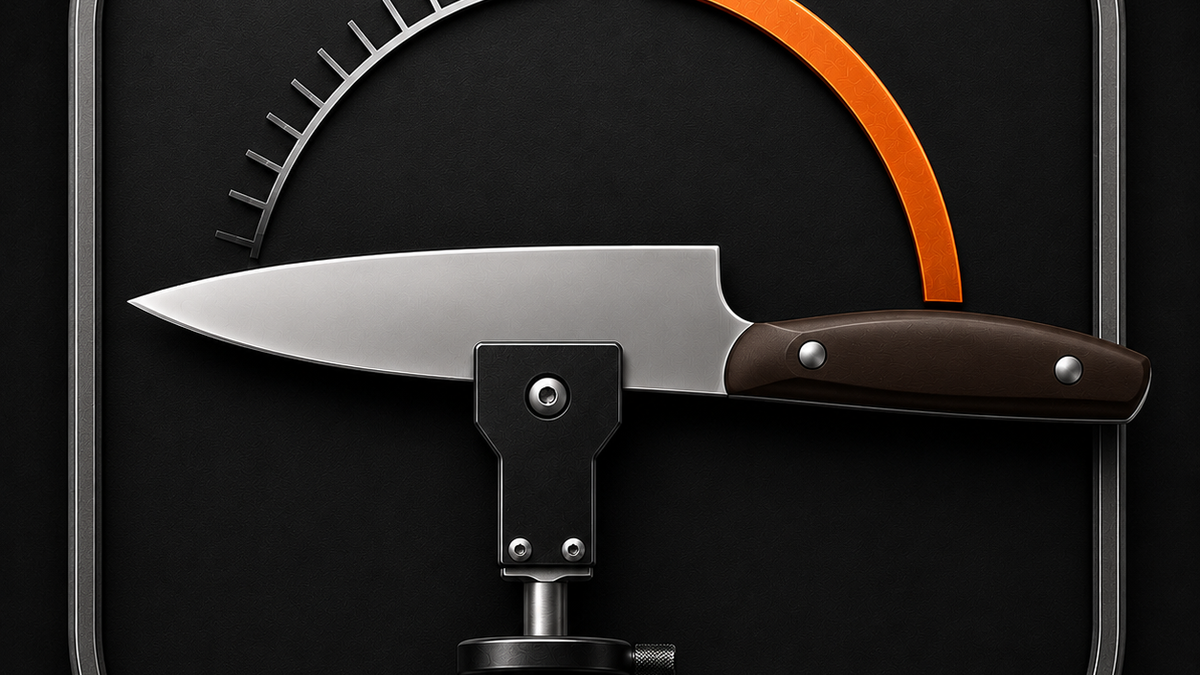
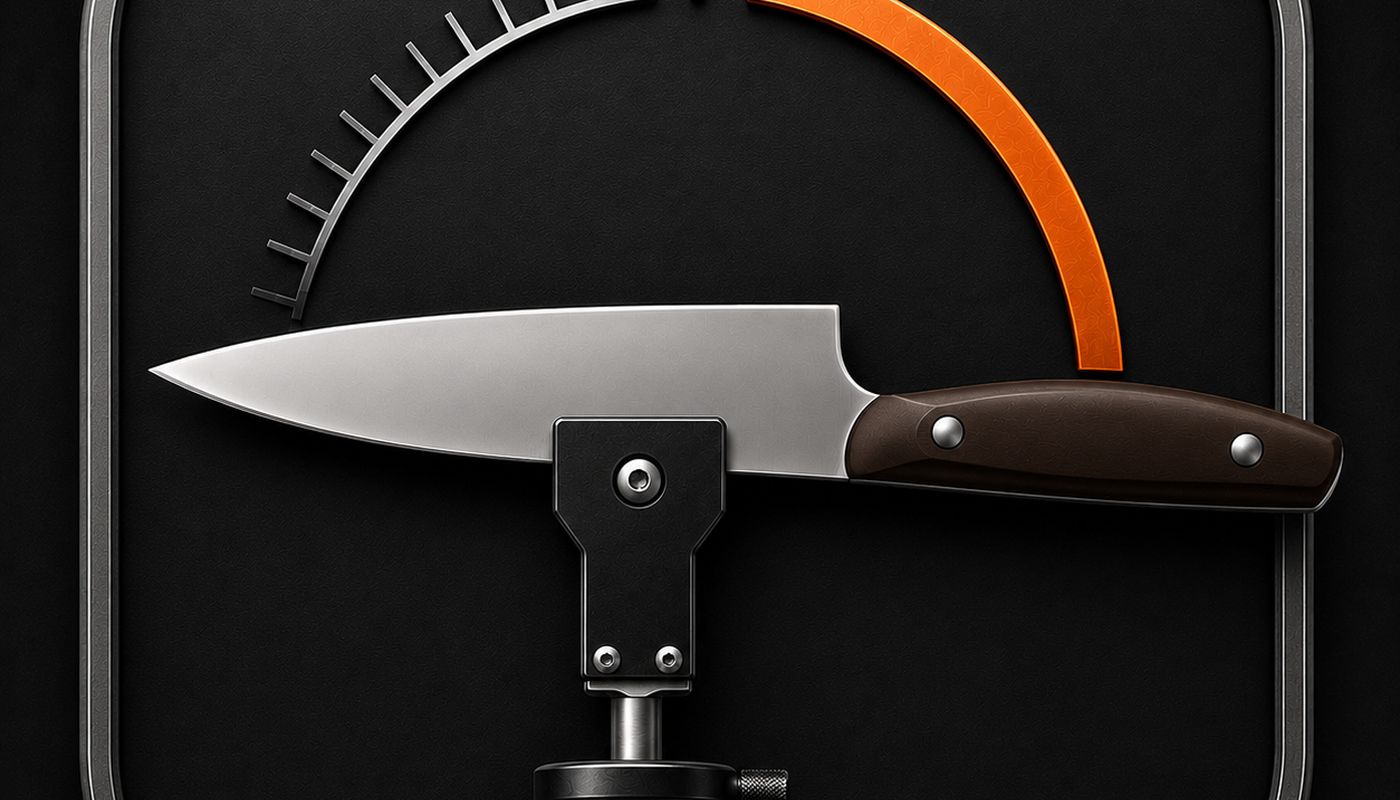
v 1.0

diff --git a/index.html b/index.html
@@ -127,6 +127,19 @@
       <button class="secondary-action" type="button" onclick="resetDefaults()">Reset Defaults</button>
     </details>
 
+    <details class="settings-card">
+      <summary>About This App</summary>
+      <p class="about-copy">EDGE Apex Companion is a development build for calculating Grip Length and Support Clearance.</p>
+      <ul class="checklist">
+        <li>✅ App icon finalized</li>
+        <li>✅ Hero image finalized</li>
+        <li>✅ Grip Length calculator</li>
+        <li>✅ Support Clearance calculator</li>
+        <li>✅ Add to Home Screen support</li>
+        <li>✅ Offline support</li>
+      </ul>
+    </details>
+
     <section class="install-card">
       <img src="assets/icons/icon-180.png" alt="">
       <div>
@@ -135,7 +148,7 @@
       </div>
     </section>
 
-    <footer class="footer">Version 4.2 development build</footer>
+    <footer class="footer">Version 1.0 development build</footer>
   </main>
 
   <div id="toast" role="status">Copied</div>

diff --git a/src/style.css b/src/style.css
@@ -78,7 +78,6 @@ h1 {
   width: 100%;
   height: auto;
   border-radius: 22px;
-  box-shadow: inset 0 0 0 1px rgba(255,255,255,.08);
 }
 
 .calculator-card {
@@ -219,6 +218,15 @@ summary {
   cursor: pointer;
   font-weight: 900;
   color: var(--text);
+}
+
+.about-copy, .checklist {
+  color: var(--muted);
+  line-height: 1.45;
+}
+
+.checklist {
+  padding-left: 18px;
 }
 
 .secondary-action {

diff --git a/src/app.js b/src/app.js
@@ -175,20 +175,20 @@ function resetDefaults() {
 function save() {
   try {
     ["angleGrip", "clearance", "angleClearance", "gripLength", "wheel", "support"].forEach(id => {
-      localStorage.setItem("edgeApexV42_" + id, el(id).value);
+      localStorage.setItem("edgeApexV10_" + id, el(id).value);
     });
-    localStorage.setItem("edgeApexV42_mode", mode);
+    localStorage.setItem("edgeApexV10_mode", mode);
   } catch (e) {}
 }
 
 function load() {
   try {
     ["angleGrip", "clearance", "angleClearance", "gripLength", "wheel", "support"].forEach(id => {
-      const value = localStorage.getItem("edgeApexV42_" + id);
+      const value = localStorage.getItem("edgeApexV10_" + id);
       if (value !== null) el(id).value = value;
     });
 
-    const savedMode = localStorage.getItem("edgeApexV42_mode");
+    const savedMode = localStorage.getItem("edgeApexV10_mode");
     if (savedMode === "clearance") mode = "clearance";
   } catch (e) {}
 }

diff --git a/service-worker.js b/service-worker.js
@@ -1,4 +1,4 @@
-const CACHE_NAME = "edge-apex-companion-v42";
+const CACHE_NAME = "edge-apex-companion-v10";
 const FILES = [
   "./",
   "./index.html",

diff --git a/README.md b/README.md
@@ -1,16 +1,33 @@
 # EDGE Apex Companion
 
-Development build for the EDGE Apex Companion calculator.
+Precision sharpening calculator for the EDGE Apex workflow.
 
-## Version 4.2
+## Version 1.0 Milestone
 
-- Wide responsive hero image so artwork is not cropped on iPhone
-- Dark graphite / orange visual system
-- Correct terminology:
-  - Bevel Angle
-  - Grip Length
-  - Support Clearance
-  - Grinding Wheel Diameter
-  - Universal Support Diameter
-- PWA manifest and service worker
-- iPhone Home Screen icon support
+### Complete
+
+- Custom app icon
+- Apple-inspired dark interface
+- Orange accent color system
+- Responsive hero artwork
+- Grip Length calculator
+- Support Clearance calculator
+- Correct terminology throughout
+- Input validation
+- Copy result button
+- Responsive on iPhone
+- Safari optimized
+- Add to Home Screen support
+- PWA support
+- Offline capable
+- Wheel diameter adjustment
+- Universal Support diameter adjustment
+- Remember last-used values
+
+## Next Development Phase
+
+- Knife Library
+- Saved sharpening setups
+- Sharpening history/log
+- Backup & Restore
+- Visual Setup Assistant